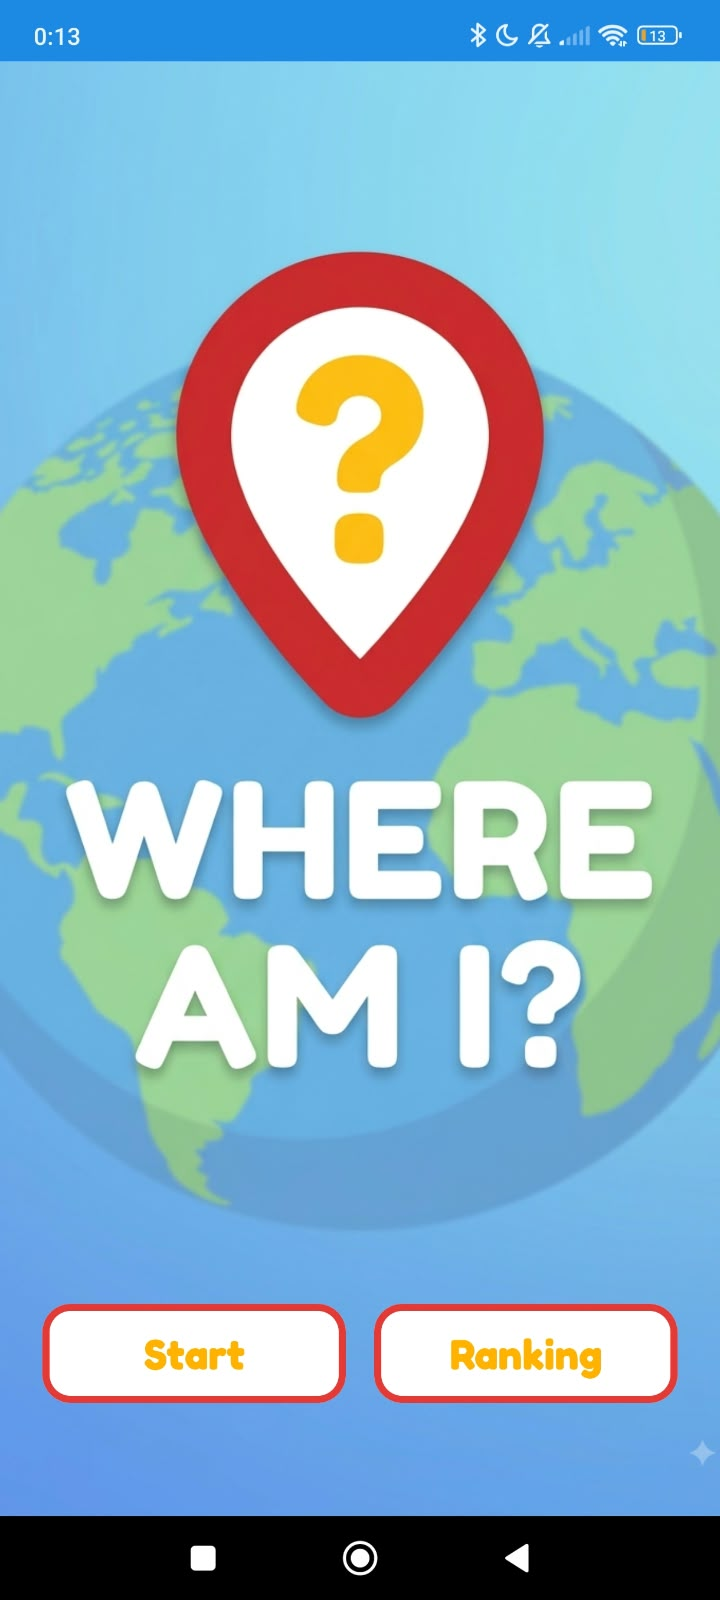
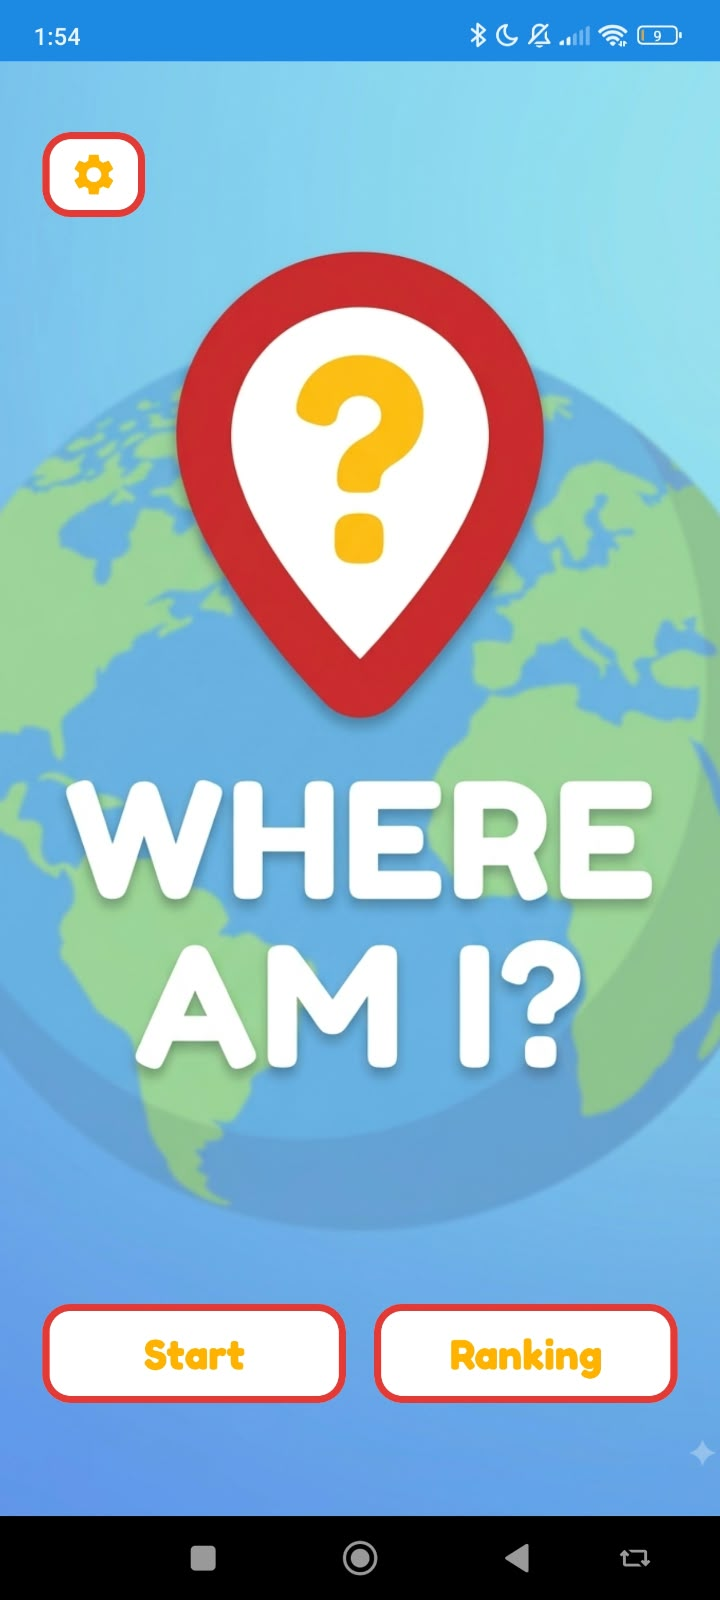
docs: update README with settings and pt-BR screenshots

diff --git a/README.md b/README.md
@@ -31,7 +31,7 @@ The app stores every match locally and provides a ranking/history screen to revi
 
 <img src="docs/images/where-am-i-home.jpeg" alt="Home screen" width="280" />
 
-The app's entry point. From here the player can start a new match or open the ranking to review the top 5 best matches and their total score.
+The app's entry point. From here the player can start a new match or open the ranking to review the top 5 best matches and their total score. Also from here the player can access the settings screen.
 
 ### Street View
 
@@ -50,6 +50,18 @@ It displays the top 5 best matches and the combined total score from those top 5
 <img src="docs/images/where-am-i-result.jpeg" alt="Result screen" width="280" />
 
 It displays the real target location, the player's guess, the distance between them, and the final score calculated from proximity, country bonus, and remaining time.
+
+### Settings
+
+<img src="docs/images/where-am-i-clear-history.jpeg" alt="Settings screen" width="280" />
+
+It allows the player to switch the language between English and Portuguese (Brazil) and clear the match history.
+
+### Portuguese - Brazil Support
+
+<img src="docs/images/where-am-i-home-pt.jpeg" alt="Home screen in Portuguese" width="280" />
+
+The same Home screen options, now in Portuguese (Brazil). All the main actions — starting a match, opening the ranking, and accessing settings — are translated to match the selected language.
 
 
 ## 🏗 And which patterns it uses❓
